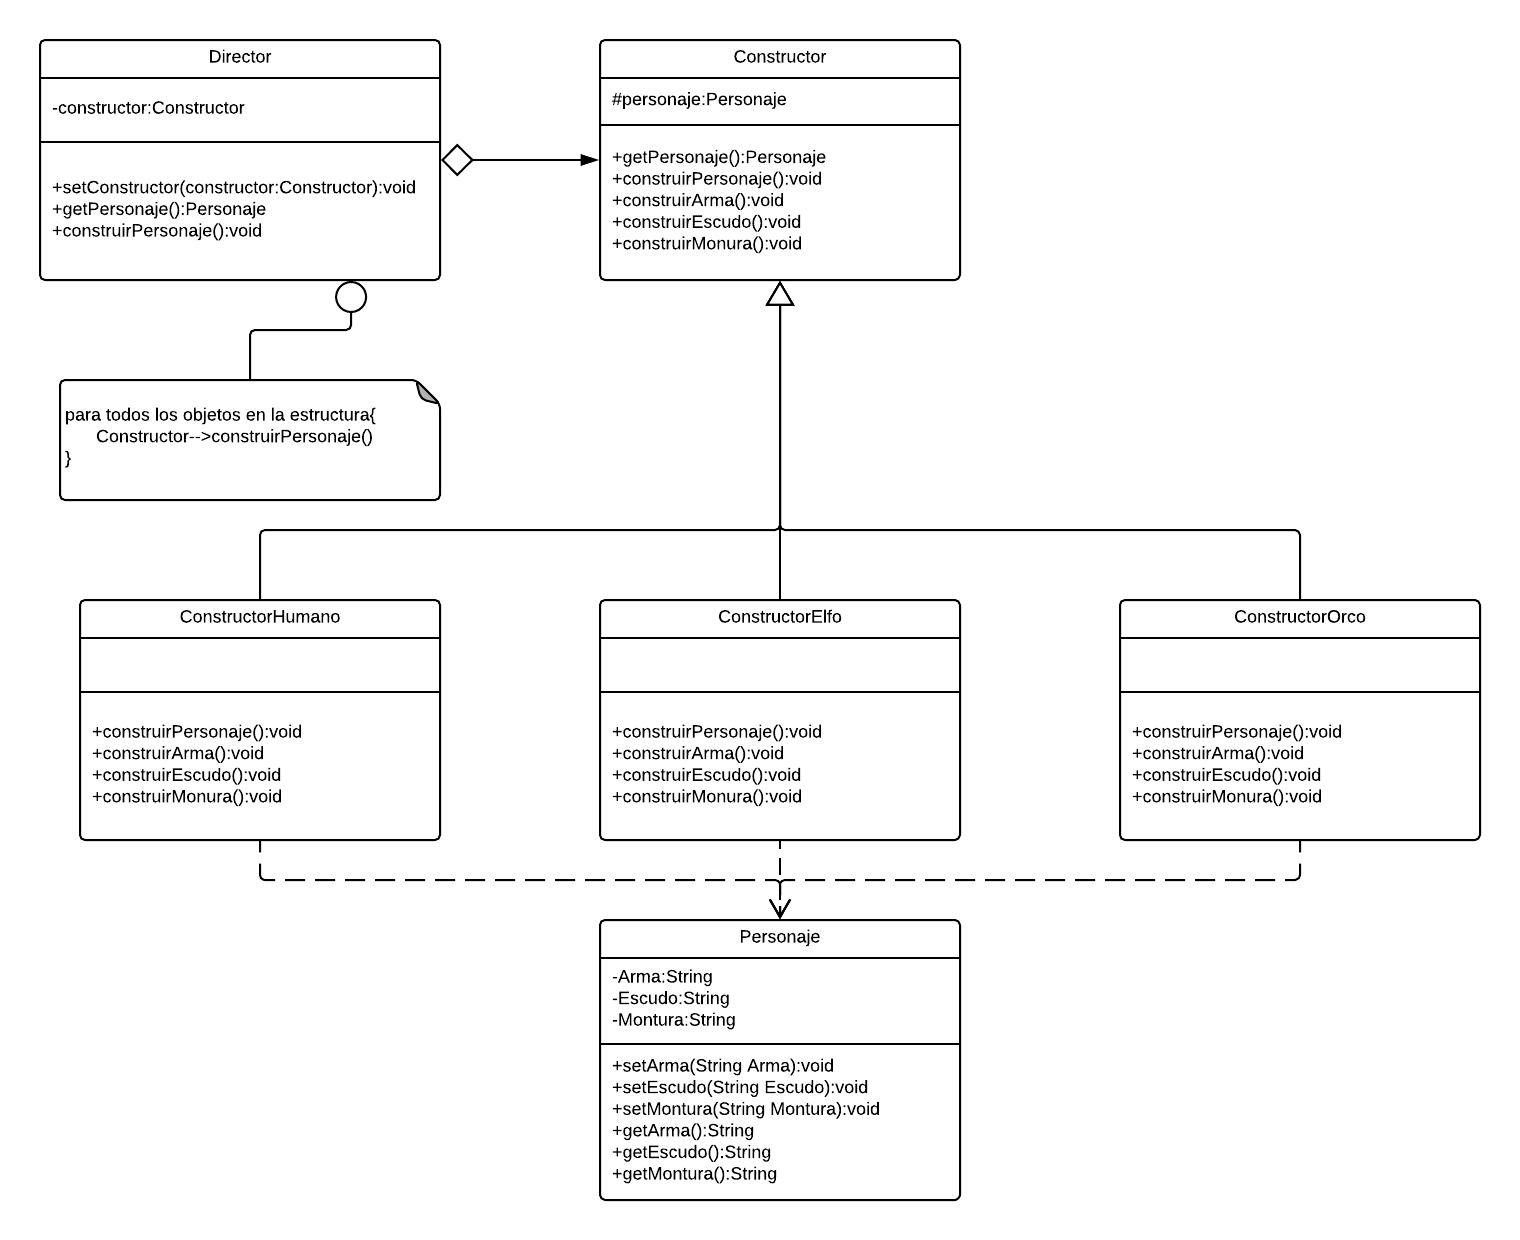
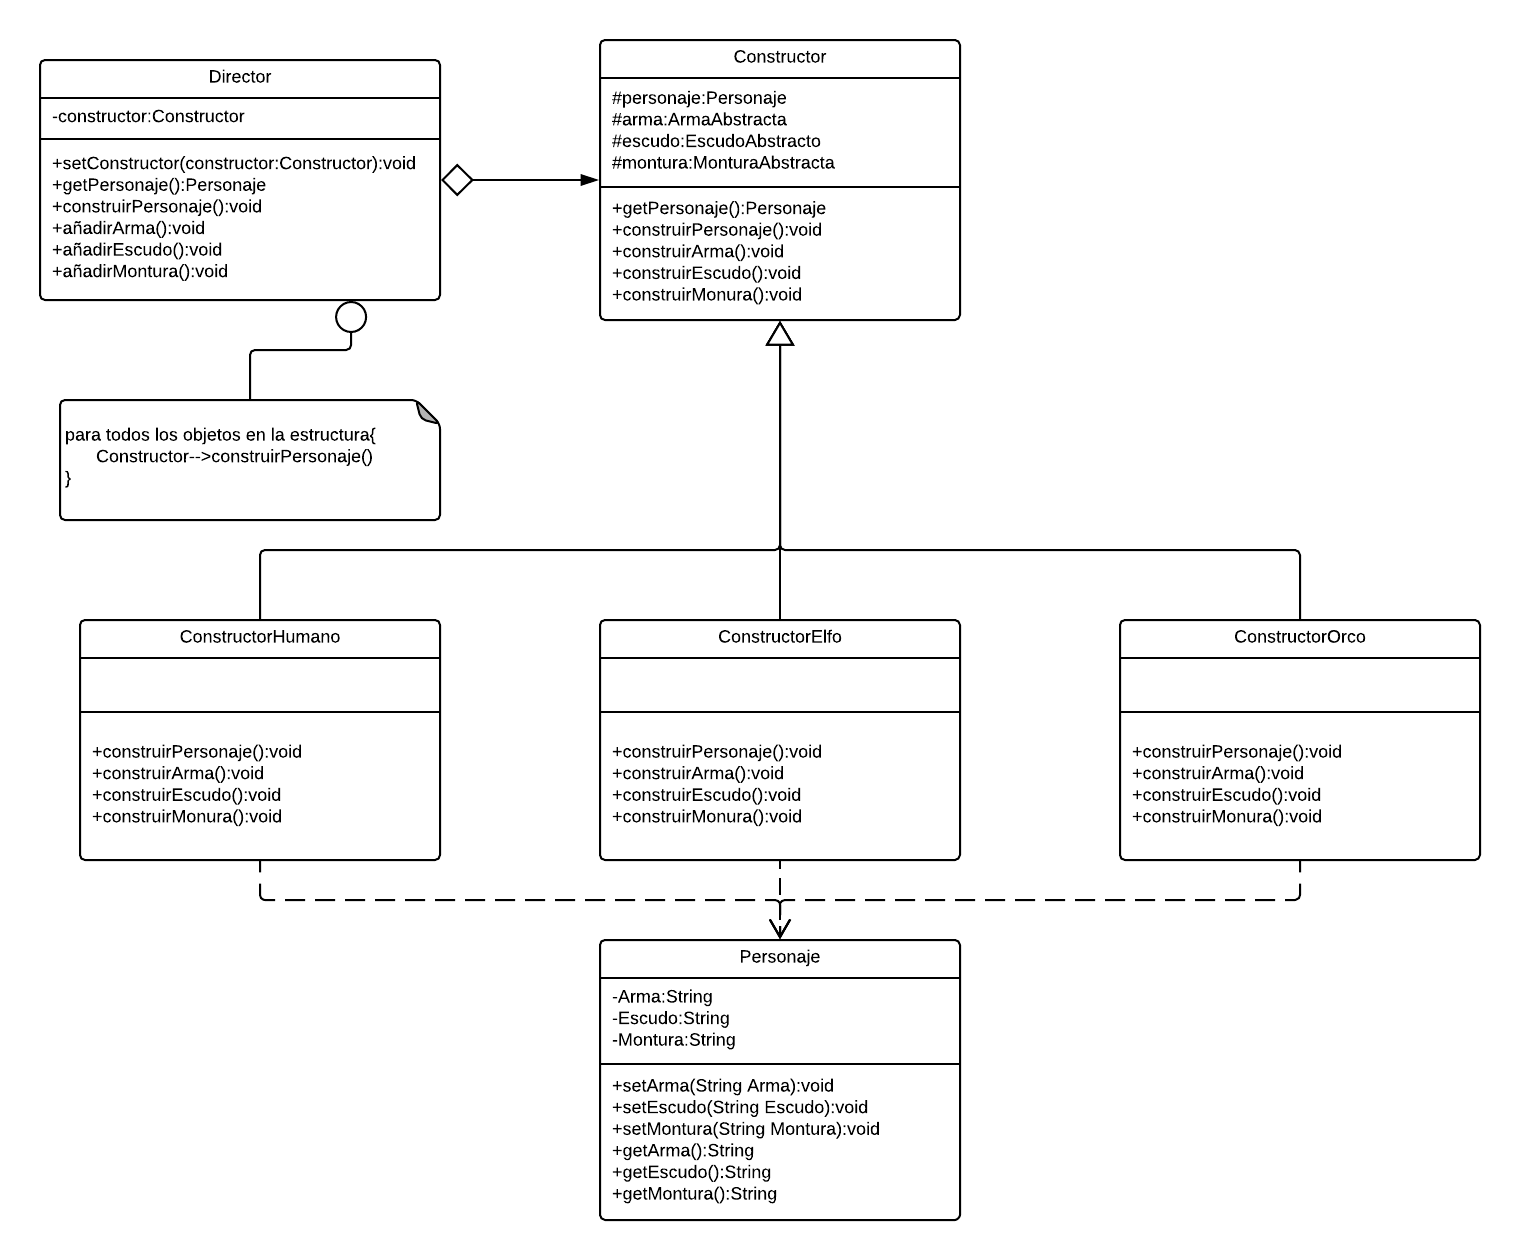
mejore diagrama builder

diff --git a/README.md b/README.md
@@ -1,4 +1,4 @@
-# Catalogo2
+# Catalogo3
 
 Abstract Factory: Catálogo de personajes
 
